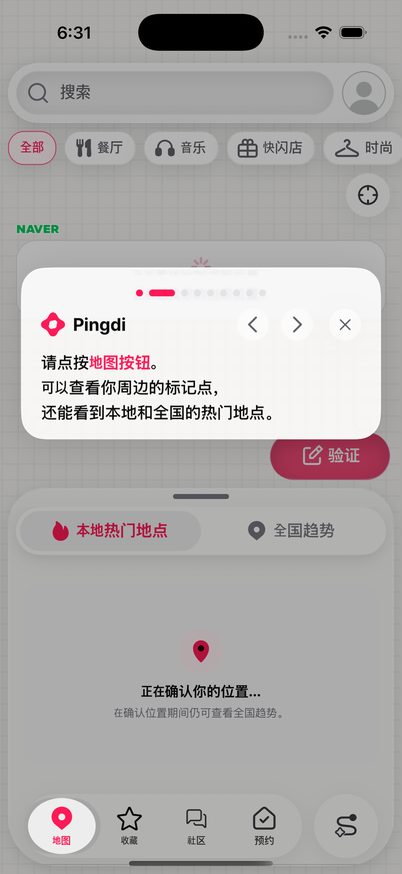
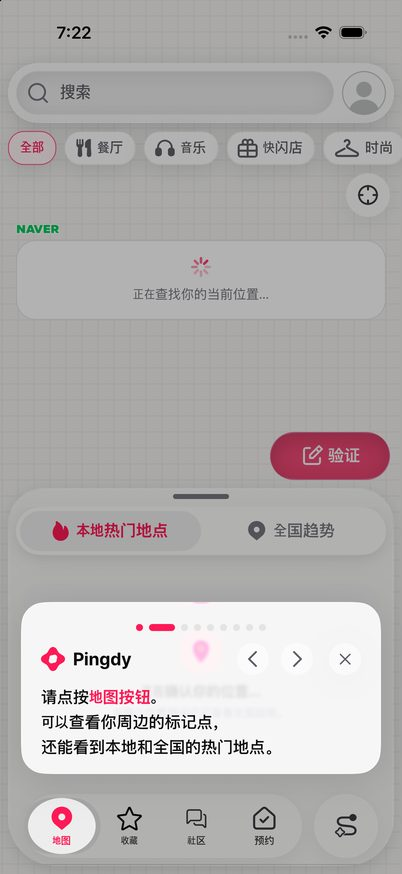
Docs: Pingdy 표기 통일에 맞춰 번역 검수 목록·튜토리얼 캡처 갱신 (#413 #414 #415 #416)

diff --git a/docs/qa/413-zh-translation-review.md b/docs/qa/413-zh-translation-review.md
@@ -1,7 +1,7 @@
 # #413 중국어 간체·번체 번역 검수 대상 키
 
 > 상태: **기계 번역 초안 · 사람 검수 필요**. 이 문서의 모든 zh-CN · zh-TW 문구는 검수 전이다.
-> 문체: 평서형 안내문, 2인칭 你(您 미사용). 용어: 검증/verify → 验证·驗證, 쿠폰 → 优惠券·優惠券, 쿠폰함 → 优惠券包·優惠券匣, 예약 → 预约·預約, 체크인 → 签到·打卡, 설정 → 设置·設定. 번체는 대만 용어(登入·帳號·搜尋·載入·網路·資訊·使用者) 기준으로 간체와 별도 번역했다. 브랜드 PingDom·Pingdi·Pingdy는 원문 표기.
+> 문체: 평서형 안내문, 2인칭 你(您 미사용). 용어: 검증/verify → 验证·驗證, 쿠폰 → 优惠券·優惠券, 쿠폰함 → 优惠券包·優惠券匣, 예약 → 预约·預約, 체크인 → 签到·打卡, 설정 → 设置·設定. 번체는 대만 용어(登入·帳號·搜尋·載入·網路·資訊·使用者) 기준으로 간체와 별도 번역했다. 브랜드 PingDom·Pingdy는 모든 언어에서 원문 표기.
 > 우선 검수: 「우선」 열이 채워진 키(접근성 label, 오류·복구 안내, 권한·정책·삭제 문구).
 > 생성 기준: `src/v2/app/i18n/resources.ts`의 조립 카탈로그, 키 1460개(우선 검수 349개).
 
@@ -43,8 +43,8 @@
 
 | 우선 | 키 | en | ko | zh-CN | zh-TW |
 |---|---|---|---|---|---|
-|  | `mapTutorial.name` | Pingdi | 핑디 | Pingdi | Pingdi |
-|  | `mapTutorial.title` | Meet Pingdi | 핑디 사용 안내 | Pingdi 使用指南 | Pingdi 使用說明 |
+|  | `mapTutorial.name` | Pingdy | Pingdy | Pingdy | Pingdy |
+|  | `mapTutorial.title` | Meet Pingdy | Pingdy 사용 안내 | Pingdy 使用指南 | Pingdy 使用說明 |
 |  | `mapTutorial.guest` | traveler | 여행자 | 旅行者 | 旅人 |
 |  | `mapTutorial.close` | Close tutorial | 튜토리얼 닫기 | 关闭教程 | 關閉教學 |
 |  | `mapTutorial.previous` | Previous tip | 이전 안내 | 上一条提示 | 上一則提示 |
@@ -53,7 +53,7 @@
 |  | `mapTutorial.progress` | Step {{current}} of {{total}} | {{current}} / {{total}} 단계 | 第 {{current}} 步，共 {{total}} 步 | 第 {{current}} 步，共 {{total}} 步 |
 |  | `mapTutorial.welcome.greeting` | Hello, {{username}}! | 안녕하세요, {{username}}님 | 你好，{{username}}！ | {{username}}，你好！ |
 |  | `mapTutorial.welcome.introduction` | Here to make your travels easier, | {{username}}님의 여행을 더 쉽게 만들어드리는 | 让你的旅行更轻松， | 讓你的旅程更輕鬆， |
-|  | `mapTutorial.welcome.agent` | I’m <accent>Pingdi</accent>, your AI agent. | AI 에이전트, <accent>핑디</accent>예요. | 我是 AI 助手 <accent>Pingdi</accent>。 | 我是 AI 助理 <accent>Pingdi</accent>。 |
+|  | `mapTutorial.welcome.agent` | I’m <accent>Pingdy</accent>, your AI agent. | AI 에이전트, <accent>Pingdy</accent>예요. | 我是 AI 助手 <accent>Pingdy</accent>。 | 我是 AI 助理 <accent>Pingdy</accent>。 |
 |  | `mapTutorial.welcome.help` | From finding places to preparing reservations,<br>I can help with a conversation. | 원하는 장소를 찾고, 예약을 준비하는 과정까지<br>대화 한번으로 도와드릴게요. | 从寻找想去的地方到准备预约，<br>只需一次对话我就能帮你。 | 從尋找想去的地點到準備預約，<br>只要一段對話就能幫你完成。 |
 |  | `mapTutorial.welcome.start` | Let me give you a quick tour! | 지금부터 간단히 사용법을 알려드릴게요! | 现在带你快速了解一下用法！ | 現在就帶你快速認識使用方式！ |
 |  | `mapTutorial.map.prompt` | Tap the <accent>Map button</accent>. | <accent>지도 버튼</accent>을 눌러보세요. | 请点按<accent>地图按钮</accent>。 | 請點一下<accent>地圖按鈕</accent>。 |

diff --git a/docs/qa/415-es-translation-review.md b/docs/qa/415-es-translation-review.md
@@ -1,7 +1,7 @@
 # #415 스페인어 번역 검수 대상 키
 
 > 상태: **기계 번역 초안 · 사람 검수 필요**. 이 문서의 모든 es 문구는 검수 전이다.
-> 기준: 중립 국제 스페인어(특정 국가 표현 배제), 2인칭 tú·복수 ustedes(vosotros 미사용). 용어: 검증/verify → verificar, 쿠폰 → cupón, 혜택/Offer → oferta, 예약 → reserva, 체크인 → check-in, 설정 → ajustes, 추천 탭 → Sugerencias, 리뷰 → reseña, 만료 → vencer/expirar. 복수형 `_many`(1,000,000 등)는 `_other`와 같은 문구다. 브랜드 PingDom·Pingdi·Pingdy는 원문 표기.
+> 기준: 중립 국제 스페인어(특정 국가 표현 배제), 2인칭 tú·복수 ustedes(vosotros 미사용). 용어: 검증/verify → verificar, 쿠폰 → cupón, 혜택/Offer → oferta, 예약 → reserva, 체크인 → check-in, 설정 → ajustes, 추천 탭 → Sugerencias, 리뷰 → reseña, 만료 → vencer/expirar. 복수형 `_many`(1,000,000 등)는 `_other`와 같은 문구다. 브랜드 PingDom·Pingdy는 모든 언어에서 원문 표기.
 > 우선 검수: 「우선」 열이 채워진 키(접근성 label, 오류·복구 안내, 권한·정책·삭제 문구).
 > 생성 기준: `src/v2/app/i18n/resources.ts`의 조립 카탈로그, 키 1473개(우선 검수 350개).
 
@@ -43,8 +43,8 @@
 
 | 우선 | 키 | en | ko | es |
 |---|---|---|---|---|
-|  | `mapTutorial.name` | Pingdi | 핑디 | Pingdi |
-|  | `mapTutorial.title` | Meet Pingdi | 핑디 사용 안내 | Conoce a Pingdi |
+|  | `mapTutorial.name` | Pingdy | Pingdy | Pingdy |
+|  | `mapTutorial.title` | Meet Pingdy | Pingdy 사용 안내 | Conoce a Pingdy |
 |  | `mapTutorial.guest` | traveler | 여행자 | viajero |
 |  | `mapTutorial.close` | Close tutorial | 튜토리얼 닫기 | Cerrar tutorial |
 |  | `mapTutorial.previous` | Previous tip | 이전 안내 | Consejo anterior |
@@ -53,7 +53,7 @@
 |  | `mapTutorial.progress` | Step {{current}} of {{total}} | {{current}} / {{total}} 단계 | Paso {{current}} de {{total}} |
 |  | `mapTutorial.welcome.greeting` | Hello, {{username}}! | 안녕하세요, {{username}}님 | ¡Hola, {{username}}! |
 |  | `mapTutorial.welcome.introduction` | Here to make your travels easier, | {{username}}님의 여행을 더 쉽게 만들어드리는 | Para que tus viajes sean más fáciles, |
-|  | `mapTutorial.welcome.agent` | I’m <accent>Pingdi</accent>, your AI agent. | AI 에이전트, <accent>핑디</accent>예요. | soy <accent>Pingdi</accent>, tu agente de IA. |
+|  | `mapTutorial.welcome.agent` | I’m <accent>Pingdy</accent>, your AI agent. | AI 에이전트, <accent>Pingdy</accent>예요. | soy <accent>Pingdy</accent>, tu agente de IA. |
 |  | `mapTutorial.welcome.help` | From finding places to preparing reservations,<br>I can help with a conversation. | 원하는 장소를 찾고, 예약을 준비하는 과정까지<br>대화 한번으로 도와드릴게요. | Desde buscar lugares hasta reservar,<br>te ayudo con una sola conversación. |
 |  | `mapTutorial.welcome.start` | Let me give you a quick tour! | 지금부터 간단히 사용법을 알려드릴게요! | ¡Te muestro rápidamente cómo funciona! |
 |  | `mapTutorial.map.prompt` | Tap the <accent>Map button</accent>. | <accent>지도 버튼</accent>을 눌러보세요. | Toca el <accent>botón Mapa</accent>. |

diff --git a/docs/qa/416-pt-br-translation-review.md b/docs/qa/416-pt-br-translation-review.md
@@ -1,7 +1,7 @@
 # #416 브라질 포르투갈어 번역 검수 대상 키
 
 > 상태: **기계 번역 초안 · 사람 검수 필요**. 이 문서의 모든 pt-BR 문구는 검수 전이다.
-> 기준: 브라질 포르투갈어(pt-BR), 2인칭 você. 용어: 검증/verify → verificar, 쿠폰 → cupom, 혜택/Offer → oferta, 예약 → reserva, 체크인 → check-in, 설정 → configurações, 추천 탭 → Sugestões, 리뷰 → avaliação, 기기 → aparelho, 가입 → cadastro. 복수형 `_many`(1,000,000 등)는 `_other`와 같은 문구다. 브랜드 PingDom·Pingdi·Pingdy는 원문 표기.
+> 기준: 브라질 포르투갈어(pt-BR), 2인칭 você. 용어: 검증/verify → verificar, 쿠폰 → cupom, 혜택/Offer → oferta, 예약 → reserva, 체크인 → check-in, 설정 → configurações, 추천 탭 → Sugestões, 리뷰 → avaliação, 기기 → aparelho, 가입 → cadastro. 복수형 `_many`(1,000,000 등)는 `_other`와 같은 문구다. 브랜드 PingDom·Pingdy는 모든 언어에서 원문 표기.
 > 우선 검수: 「우선」 열이 채워진 키(접근성 label, 오류·복구 안내, 권한·정책·삭제 문구).
 > 생성 기준: `src/v2/app/i18n/resources.ts`의 조립 카탈로그, 키 1473개(우선 검수 350개).
 
@@ -43,8 +43,8 @@
 
 | 우선 | 키 | en | ko | pt-BR |
 |---|---|---|---|---|
-|  | `mapTutorial.name` | Pingdi | 핑디 | Pingdi |
-|  | `mapTutorial.title` | Meet Pingdi | 핑디 사용 안내 | Conheça o Pingdi |
+|  | `mapTutorial.name` | Pingdy | Pingdy | Pingdy |
+|  | `mapTutorial.title` | Meet Pingdy | Pingdy 사용 안내 | Conheça o Pingdy |
 |  | `mapTutorial.guest` | traveler | 여행자 | viajante |
 |  | `mapTutorial.close` | Close tutorial | 튜토리얼 닫기 | Fechar tutorial |
 |  | `mapTutorial.previous` | Previous tip | 이전 안내 | Dica anterior |
@@ -53,7 +53,7 @@
 |  | `mapTutorial.progress` | Step {{current}} of {{total}} | {{current}} / {{total}} 단계 | Etapa {{current}} de {{total}} |
 |  | `mapTutorial.welcome.greeting` | Hello, {{username}}! | 안녕하세요, {{username}}님 | Olá, {{username}}! |
 |  | `mapTutorial.welcome.introduction` | Here to make your travels easier, | {{username}}님의 여행을 더 쉽게 만들어드리는 | Para deixar suas viagens mais fáceis, |
-|  | `mapTutorial.welcome.agent` | I’m <accent>Pingdi</accent>, your AI agent. | AI 에이전트, <accent>핑디</accent>예요. | eu sou o <accent>Pingdi</accent>, seu agente de IA. |
+|  | `mapTutorial.welcome.agent` | I’m <accent>Pingdy</accent>, your AI agent. | AI 에이전트, <accent>Pingdy</accent>예요. | eu sou o <accent>Pingdy</accent>, seu agente de IA. |
 |  | `mapTutorial.welcome.help` | From finding places to preparing reservations,<br>I can help with a conversation. | 원하는 장소를 찾고, 예약을 준비하는 과정까지<br>대화 한번으로 도와드릴게요. | De encontrar lugares a preparar reservas,<br>eu ajudo você com uma conversa. |
 |  | `mapTutorial.welcome.start` | Let me give you a quick tour! | 지금부터 간단히 사용법을 알려드릴게요! | Vou mostrar rapidinho como funciona! |
 |  | `mapTutorial.map.prompt` | Tap the <accent>Map button</accent>. | <accent>지도 버튼</accent>을 눌러보세요. | Toque no <accent>botão Mapa</accent>. |

diff --git a/docs/qa/414-vi-translation-review.md b/docs/qa/414-vi-translation-review.md
@@ -1,7 +1,7 @@
 # #414 베트남어 번역 검수 대상 키
 
 > 상태: **기계 번역 초안 · 사람 검수 필요**. 이 문서의 모든 vi 문구는 검수 전이다.
-> 문체: 안내문은 정중한 평서형(Vui lòng/Hãy), 2인칭 bạn, 어시스턴트 1인칭 mình. 용어: 검증/verify → xác minh, 쿠폰 → phiếu ưu đãi, 혜택/Offer → ưu đãi, 예약 → đặt chỗ, 체크인 → check-in, 즐겨찾기 → Yêu thích, 설정 → Cài đặt. 브랜드 PingDom·Pingdi·Pingdy는 원문 표기.
+> 문체: 안내문은 정중한 평서형(Vui lòng/Hãy), 2인칭 bạn, 어시스턴트 1인칭 mình. 용어: 검증/verify → xác minh, 쿠폰 → phiếu ưu đãi, 혜택/Offer → ưu đãi, 예약 → đặt chỗ, 체크인 → check-in, 즐겨찾기 → Yêu thích, 설정 → Cài đặt. 브랜드 PingDom·Pingdy는 모든 언어에서 원문 표기.
 > 우선 검수: 「우선」 열이 채워진 키(접근성 label, 오류·복구 안내, 권한·정책·삭제 문구).
 > 생성 기준: `src/v2/app/i18n/resources.ts`의 조립 카탈로그, 키 1460개(우선 검수 349개).
 
@@ -43,8 +43,8 @@
 
 | 우선 | 키 | en | ko | vi |
 |---|---|---|---|---|
-|  | `mapTutorial.name` | Pingdi | 핑디 | Pingdi |
-|  | `mapTutorial.title` | Meet Pingdi | 핑디 사용 안내 | Làm quen với Pingdi |
+|  | `mapTutorial.name` | Pingdy | Pingdy | Pingdy |
+|  | `mapTutorial.title` | Meet Pingdy | Pingdy 사용 안내 | Làm quen với Pingdy |
 |  | `mapTutorial.guest` | traveler | 여행자 | bạn |
 |  | `mapTutorial.close` | Close tutorial | 튜토리얼 닫기 | Đóng hướng dẫn |
 |  | `mapTutorial.previous` | Previous tip | 이전 안내 | Mẹo trước |
@@ -53,7 +53,7 @@
 |  | `mapTutorial.progress` | Step {{current}} of {{total}} | {{current}} / {{total}} 단계 | Bước {{current}}/{{total}} |
 |  | `mapTutorial.welcome.greeting` | Hello, {{username}}! | 안녕하세요, {{username}}님 | Xin chào, {{username}}! |
 |  | `mapTutorial.welcome.introduction` | Here to make your travels easier, | {{username}}님의 여행을 더 쉽게 만들어드리는 | Giúp chuyến đi của bạn dễ dàng hơn, |
-|  | `mapTutorial.welcome.agent` | I’m <accent>Pingdi</accent>, your AI agent. | AI 에이전트, <accent>핑디</accent>예요. | mình là <accent>Pingdi</accent>, trợ lý AI của bạn. |
+|  | `mapTutorial.welcome.agent` | I’m <accent>Pingdy</accent>, your AI agent. | AI 에이전트, <accent>Pingdy</accent>예요. | mình là <accent>Pingdy</accent>, trợ lý AI của bạn. |
 |  | `mapTutorial.welcome.help` | From finding places to preparing reservations,<br>I can help with a conversation. | 원하는 장소를 찾고, 예약을 준비하는 과정까지<br>대화 한번으로 도와드릴게요. | Từ tìm địa điểm đến chuẩn bị đặt chỗ,<br>mình giúp bạn chỉ qua một cuộc trò chuyện. |
 |  | `mapTutorial.welcome.start` | Let me give you a quick tour! | 지금부터 간단히 사용법을 알려드릴게요! | Cùng xem nhanh cách sử dụng nhé! |
 |  | `mapTutorial.map.prompt` | Tap the <accent>Map button</accent>. | <accent>지도 버튼</accent>을 눌러보세요. | Hãy chạm vào <accent>nút Bản đồ</accent>. |

diff --git a/docs/qa/413-416-multilingual-i18n.md b/docs/qa/413-416-multilingual-i18n.md
@@ -15,7 +15,7 @@
 |---|---|
 | `npm run check:v2` | PASS: 경계 906 source files, 테스트 76/76 |
 | `npm run typecheck` | PASS |
-| `npm run test:i18n-formatters` | PASS: 88/88 |
+| `npm run test:i18n-formatters` | PASS: 89/89 |
 | `npm run check:a11y-i18n` | PASS: production render graph 549 files |
 | `npm run test:ownership-harness` | PASS |
 | `npm run validate:pr` | PASS: Jest 170 suites / 1,692 tests, 실패 0 |
